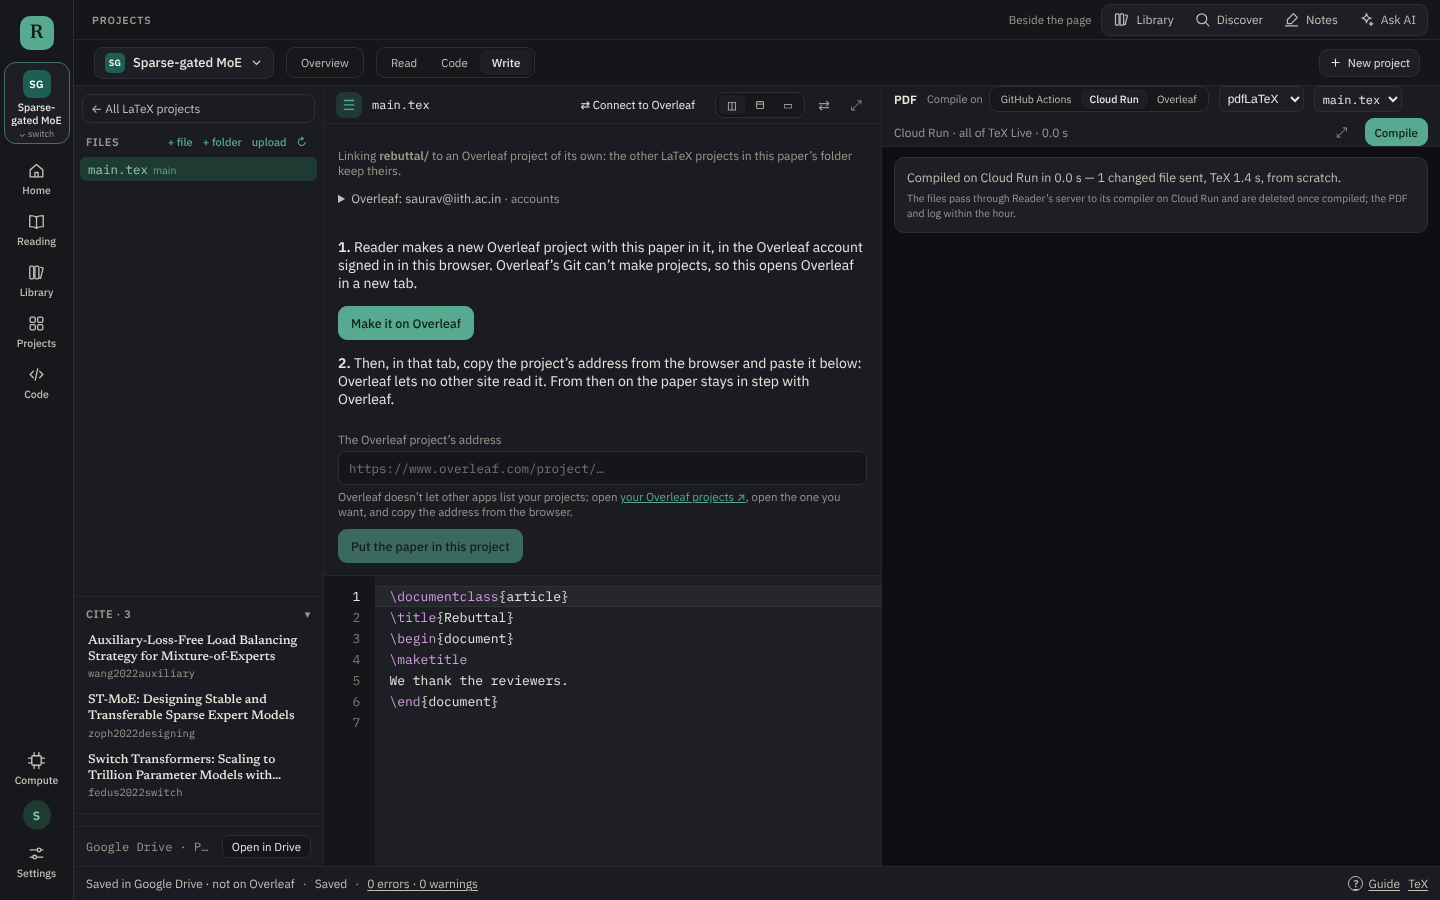
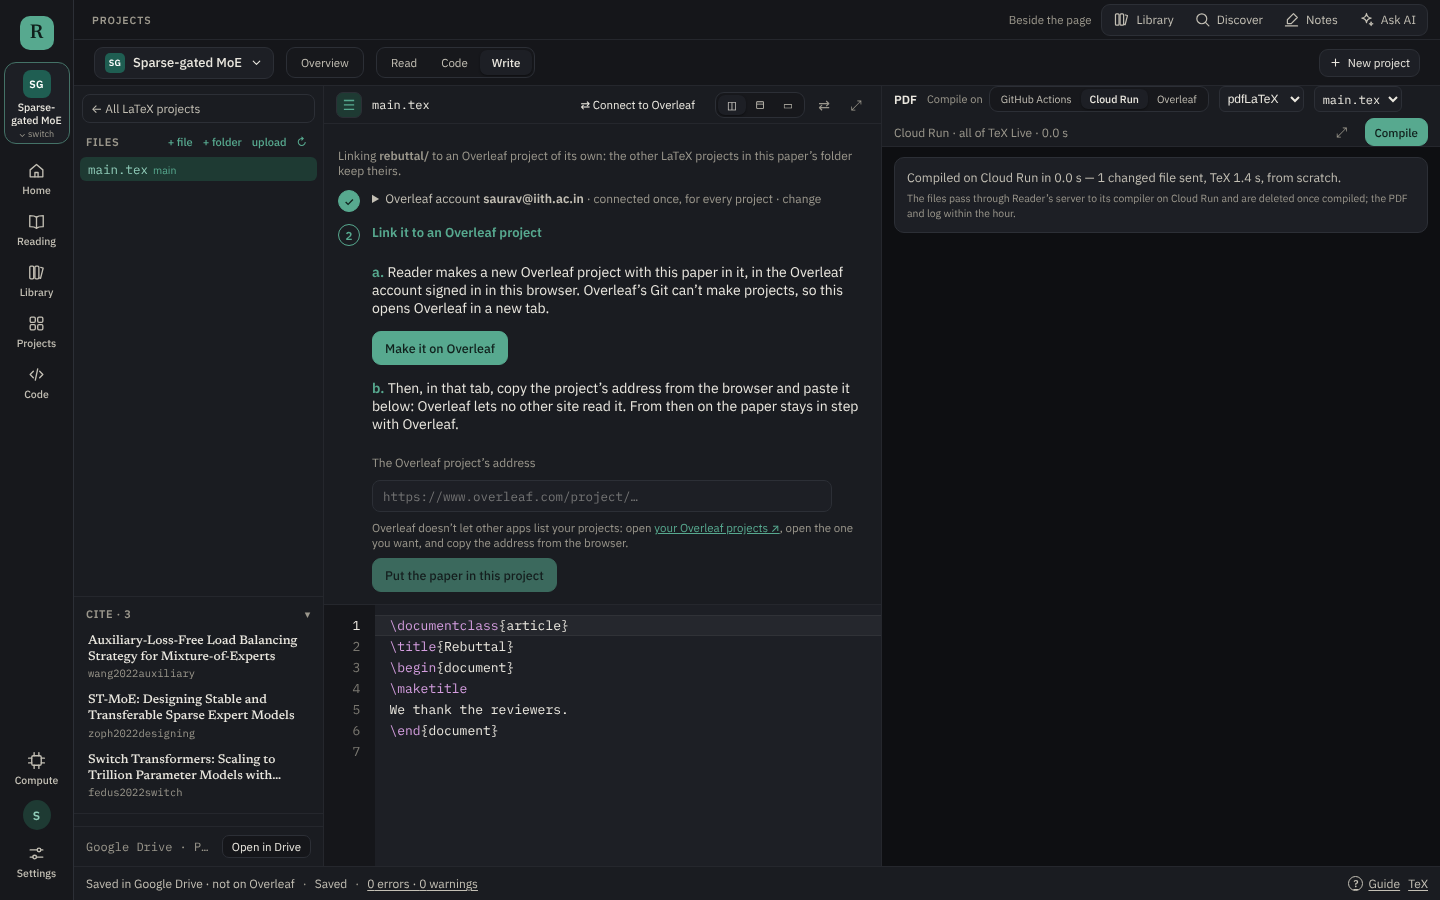
Overleaf account: asked for only when connecting, once, never as a compulsion
- Connect to Overleaf is two steps: the Overleaf account (email and Git
  token) only when none is connected — shown as done, with its name, when
  one is, here or from Projects → Connections — then the LaTeX project's
  Overleaf project.
- In the editor, a LaTeX project linked to Overleaf with no account to sync
  with gets a one-line nudge (Connect Overleaf account / Not now) in place
  of the whole form; Not now is remembered for the project.
- The paper card suggests Overleaf for its state: connect an account and
  link (none connected), link as the account already connected (nothing
  more to enter), or connect the account for a project linked but not
  syncing; Not now puts the suggestion away and leaves the button.
- The Overleaf accounts list is answered even when the server says no, so
  nothing waits on it.

Claude-Session: https://claude.ai/code/session_01EK97U4HuEDfpZxHH8nzPX2

Changed region(s): [[0.2188, 0.2178, 0.5938, 0.84]]

diff --git a/src/components/Write.tsx b/src/components/Write.tsx
@@ -31,7 +31,7 @@ import { CompanionConnect } from './Playground';
 import OverleafAccounts, { useOverleafAccounts } from './OverleafAccounts';
 import { WriteGuideLink } from './WriteGuide';
 import CompareOverleaf from './WriteCompare';
-import { lineIn, rememberPlace, takeWriteHome } from '../lib/writePlace';
+import { lineIn, notNow, rememberPlace, saidNotNow, takeWriteHome } from '../lib/writePlace';
 import type { ZipEntry } from '../lib/zip';
 
 type Here = Extract<ThisComputer, { server: unknown }>;
@@ -231,76 +231,106 @@ function OverleafPicker({ project, mode, onPicked, onMake }: { project: Project;
   };
   const pasted = parseOverleafUrl(address);
   if (accounts === null) return <p className="wr-quiet">Asking Reader’s server about your Overleaf accounts…</p>;
-  if (!accounts.length || needAccount)
-    return (
-      <div className="wr-form">
-        <OverleafAccounts open={Boolean(needAccount)} why={needAccount ?? undefined} onConnected={() => (needAccount && last ? void pick(last) : undefined)} />
-      </div>
-    );
+  // Two steps, the first only when it is needed: the Overleaf account, connected once for every project
+  // (here or under Projects → Connections) — never asked again once it is — then this project's Overleaf project.
+  const hasAccount = accounts.length > 0 && !needAccount;
+  const labels = accounts.map((account) => account.label).join(', ');
   return (
     <div className="wr-form wr-ol-pick">
-      <details className="ol-connected">
-        <summary>
-          Overleaf: {accounts.map((account) => account.label).join(', ')} <span className="wr-quiet">· accounts</span>
-        </summary>
-        <OverleafAccounts />
-      </details>
-      {mode === 'push' && onMake ? (
-        <div className="wr-ol-make">
-          <p>
-            <b>1.</b> Reader makes a new Overleaf project with this paper in it, in the Overleaf account signed in in this browser. Overleaf’s Git can’t make projects, so this opens Overleaf in a new tab.
-          </p>
-          <div className="wr-row">
-            <button
-              type="button"
-              className="btn primary"
-              disabled={busy}
-              onClick={() => {
-                setProblem(null);
-                void onMake().then(() => setMade(true), (error) => setProblem(error instanceof Error ? error.message : String(error)));
-              }}
-            >
-              {made ? 'Make another' : 'Make it on Overleaf'}
-            </button>
+      <ol className="wr-steps">
+        <li className={`wr-step${hasAccount ? ' is-done' : ' is-now'}`}>
+          <span className="wr-step-n" aria-hidden="true">
+            {hasAccount ? '✓' : '1'}
+          </span>
+          <div className="wr-step-body">
+            {hasAccount ? (
+              <details className="ol-connected">
+                <summary>
+                  Overleaf account <b>{labels}</b> <span className="wr-quiet">· connected once, for every project · change</span>
+                </summary>
+                <OverleafAccounts />
+              </details>
+            ) : (
+              <>
+                <p className="wr-step-why">
+                  {needAccount ? 'This Overleaf project needs the account it belongs to.' : 'First, your Overleaf account — once, for every project and device. It isn’t asked again, and can be changed under Projects → Connections.'}
+                </p>
+                <OverleafAccounts open why={needAccount ?? undefined} onConnected={() => (needAccount && last ? void pick(last) : undefined)} />
+              </>
+            )}
           </div>
-          <p>
-            <b>2.</b> {made ? 'In the tab that opened, ' : 'Then, in that tab, '}copy the project’s address from the browser and paste it below: Overleaf lets no other site read it. From then on the paper stays in step with Overleaf.
-          </p>
-        </div>
-      ) : mode === 'push' ? (
-        <p>
-          In Overleaf, make a <b>Blank Project</b> for this paper (New Project → Blank Project), copy its address, and paste it here: this paper’s files go into it, and from then on it stays in step with Overleaf.
-        </p>
-      ) : offered.length ? (
-        <>
-          <span className="wr-field-label">Your Overleaf projects Reader knows</span>
-          <div className="wr-ol-list" role="list">
-            {offered.map((item) => (
-              <button key={item.url} type="button" role="listitem" className="wr-ol-item" disabled={busy} onClick={() => void pick(item.url)}>
-                <b>{item.label}</b>
-                <small className="mono">{item.url.replace('https://www.', '')}</small>
-              </button>
-            ))}
+        </li>
+        <li className={`wr-step${hasAccount ? ' is-now' : ' is-later'}`}>
+          <span className="wr-step-n" aria-hidden="true">
+            2
+          </span>
+          <div className="wr-step-body">
+            <b className="wr-step-title">{mode === 'push' ? 'Link it to an Overleaf project' : 'Pick the Overleaf project'}</b>
+            {!hasAccount ? (
+              <p className="wr-quiet">Next, once the account is connected.</p>
+            ) : (
+              <>
+              {mode === 'push' && onMake ? (
+                <div className="wr-ol-make">
+                  <p>
+                    <b>a.</b> Reader makes a new Overleaf project with this paper in it, in the Overleaf account signed in in this browser. Overleaf’s Git can’t make projects, so this opens Overleaf in a new tab.
+                  </p>
+                  <div className="wr-row">
+                    <button
+                      type="button"
+                      className="btn primary"
+                      disabled={busy}
+                      onClick={() => {
+                        setProblem(null);
+                        void onMake().then(() => setMade(true), (error) => setProblem(error instanceof Error ? error.message : String(error)));
+                      }}
+                    >
+                      {made ? 'Make another' : 'Make it on Overleaf'}
+                    </button>
+                  </div>
+                  <p>
+                    <b>b.</b> {made ? 'In the tab that opened, ' : 'Then, in that tab, '}copy the project’s address from the browser and paste it below: Overleaf lets no other site read it. From then on the paper stays in step with Overleaf.
+                  </p>
+                </div>
+              ) : mode === 'push' ? (
+                <p>
+                  In Overleaf, make a <b>Blank Project</b> for this paper (New Project → Blank Project), copy its address, and paste it here: this paper’s files go into it, and from then on it stays in step with Overleaf.
+                </p>
+              ) : offered.length ? (
+                <>
+                  <span className="wr-field-label">Your Overleaf projects Reader knows</span>
+                  <div className="wr-ol-list" role="list">
+                    {offered.map((item) => (
+                      <button key={item.url} type="button" role="listitem" className="wr-ol-item" disabled={busy} onClick={() => void pick(item.url)}>
+                        <b>{item.label}</b>
+                        <small className="mono">{item.url.replace('https://www.', '')}</small>
+                      </button>
+                    ))}
+                  </div>
+                </>
+              ) : null}
+              <label className="wr-field">
+                <span>{mode === 'push' || !offered.length ? 'The Overleaf project’s address' : 'Or another of your projects: its address'}</span>
+                <input value={address} placeholder="https://www.overleaf.com/project/…" onChange={(event) => setAddress(event.target.value)} aria-label="The Overleaf project’s address" />
+                <small>
+                  Overleaf doesn’t let other apps list your projects: open{' '}
+                  <a href="https://www.overleaf.com/project" target="_blank" rel="noopener noreferrer">
+                    your Overleaf projects ↗
+                  </a>
+                  , open the one you want, and copy the address from the browser.
+                </small>
+              </label>
+              <div className="wr-row">
+                <button type="button" className="btn primary" disabled={busy || !pasted} onClick={() => pasted && void pick(pasted)}>
+                  {busy ? (mode === 'push' ? 'Sending the paper to Overleaf…' : 'Bringing it in…') : mode === 'push' ? 'Put the paper in this project' : 'Use this project'}
+                </button>
+                {address.trim() && !pasted ? <span className="wr-bad">That isn’t an Overleaf project’s address (overleaf.com/project/…).</span> : null}
+              </div>
+              </>
+            )}
           </div>
-        </>
-      ) : null}
-      <label className="wr-field">
-        <span>{mode === 'push' || !offered.length ? 'The Overleaf project’s address' : 'Or another of your projects: its address'}</span>
-        <input value={address} placeholder="https://www.overleaf.com/project/…" onChange={(event) => setAddress(event.target.value)} aria-label="The Overleaf project’s address" />
-        <small>
-          Overleaf doesn’t let other apps list your projects: open{' '}
-          <a href="https://www.overleaf.com/project" target="_blank" rel="noopener noreferrer">
-            your Overleaf projects ↗
-          </a>
-          , open the one you want, and copy the address from the browser.
-        </small>
-      </label>
-      <div className="wr-row">
-        <button type="button" className="btn primary" disabled={busy || !pasted} onClick={() => pasted && void pick(pasted)}>
-          {busy ? (mode === 'push' ? 'Sending the paper to Overleaf…' : 'Bringing it in…') : mode === 'push' ? 'Put the paper in this project' : 'Use this project'}
-        </button>
-        {address.trim() && !pasted ? <span className="wr-bad">That isn’t an Overleaf project’s address (overleaf.com/project/…).</span> : null}
-      </div>
+        </li>
+      </ol>
       {problem ? <p className="wr-bad">{problem}</p> : null}
     </div>
   );
@@ -2208,7 +2238,8 @@ function WriteDesk({ project, here, folder, store, rootStore, scope, owner = '',
     void refreshList();
     if (server && !inDrive) void paperEngines(server).then(setEngines, () => setEngines(null));
     if (git && server && !inDrive) void paperRemote(server, folder.path).then((remote) => setNeedToken(!remote.token && /overleaf|github/.test(remote.url)), () => undefined);
-    if (git && inDrive) void overleafTokenKnown().then((known) => setNeedToken(!known), () => undefined);
+    // No account, and "Not now" said for this project: written without syncing, no nudge, until Sync is pressed.
+    if (git && inDrive) void overleafTokenKnown().then((known) => (known ? setNeedToken(false) : saidNotNow(project.id) ? setUnsynced(true) : setNeedToken(true)), () => undefined);
   }, [refreshList, server, folder.path, git, inDrive]);
 
   // The open LaTeX project's own files; the folder's other projects are a step back, on the home page.
@@ -2548,6 +2579,8 @@ function WriteDesk({ project, here, folder, store, rootStore, scope, owner = '',
   const placeTimer = useRef<number>();
   // Each LaTeX project its own Overleaf project: this one linked by itself, from the paper's whole folder.
   const [connecting, setConnecting] = useState(connectOverleaf);
+  // Linked to Overleaf with no account to sync with: a nudge, the account's form only when asked for (or the paper card asked).
+  const [accountOpen, setAccountOpen] = useState(connectOverleaf);
   const canConnect = inDrive && !git && Boolean(rootStore);
   useEffect(() => {
     if (!shown || !current || placed.current === shown) return;
@@ -3240,14 +3273,23 @@ function WriteDesk({ project, here, folder, store, rootStore, scope, owner = '',
               , keep what should stay, and sync again.
             </span>
           ) : needToken ? (
-            <span>{inDrive ? 'No Overleaf account is connected yet: connect yours to keep the paper in step with Overleaf.' : 'The Companion has no token for this folder’s remote yet.'}</span>
+            <span>{inDrive ? 'This LaTeX project is linked to Overleaf, but isn’t syncing: no Overleaf account is connected yet. Optional — writing and compiling here go on either way.' : 'The Companion has no token for this folder’s remote yet.'}</span>
           ) : (
             <span>{syncError}</span>
           )}
-          {inDrive && (needToken || /token|account/i.test(syncError ?? '')) ? (
+          {inDrive && (needToken || /token|account/i.test(syncError ?? '')) && !accountOpen ? (
+            <span className="wr-nudge-actions">
+              <button type="button" className="btn sm primary" onClick={() => setAccountOpen(true)}>
+                Connect Overleaf account
+              </button>
+              <button type="button" className="link-btn" onClick={() => (notNow(project.id), setUnsynced(true), setNeedToken(false), setSyncError(null))} title="Keep writing and compiling here; nothing goes to Overleaf until you press Sync">
+                Not now
+              </button>
+            </span>
+          ) : inDrive && (needToken || /token|account/i.test(syncError ?? '')) ? (
             <div className="wr-sync-accounts">
-              <OverleafAccounts open projectUrl={link?.url} onConnected={() => (setNeedToken(false), void sync())} />
-              <button type="button" className="link-btn" onClick={() => (setUnsynced(true), setNeedToken(false), setSyncError(null))} title="Keep writing and compiling here; nothing goes to Overleaf until you press Sync">
+              <OverleafAccounts open projectUrl={link?.url} onConnected={() => (setAccountOpen(false), setNeedToken(false), void sync())} />
+              <button type="button" className="link-btn" onClick={() => (notNow(project.id), setAccountOpen(false), setUnsynced(true), setNeedToken(false), setSyncError(null))} title="Keep writing and compiling here; nothing goes to Overleaf until you press Sync">
                 Not now: write without syncing
               </button>
             </div>

diff --git a/src/components/Overleaf.tsx b/src/components/Overleaf.tsx
@@ -30,8 +30,8 @@ import { createPrivateRepo, githubAccount, makeRepoPrivate, parseRepo, repoNameF
 import { papersIn, projectsOf, type Project } from '../lib/projects';
 import type { OverleafLink, OverleafView, Paper, Settings } from '../types';
 import CodeEditor, { type CodeEditorHandle } from './CodeEditor';
-import { SyncedThrough } from './OverleafAccounts';
-import { agoShort, lastPlace, openWriteHome, type WriteHomeAsk } from '../lib/writePlace';
+import { SyncedThrough, useOverleafAccounts } from './OverleafAccounts';
+import { agoShort, lastPlace, notNow, openWriteHome, saidNotNow, type WriteHomeAsk } from '../lib/writePlace';
 import { CheckIcon, CopyIcon, ExternalIcon, LockIcon } from './icons';
 
 // -------------------------------------------------- opening Overleaf --
@@ -453,6 +453,20 @@ export function OverleafCard({ project, onWrite, onWorkspace }: { project: Proje
   const onOverleaf = Boolean(overleafGitUrl(hereLink.url));
   // The ones known by their links: the top's when it has one (or was written in), and each folder with a link of its own.
   const latexProjects = link?.drive ? [...(overleafGitUrl(link.url) || (place && !place.dir) ? [''] : []), ...Object.keys(link.latex ?? {})].map((dir) => ({ dir, url: latexLinkAt(link, dir).url })) : [];
+  // Overleaf offered, never required: a suggestion for this state, put away with Not now (the button stays).
+  const accounts = useOverleafAccounts();
+  const [quiet, setQuiet] = useState(() => saidNotNow(project.id, 'card'));
+  const accountLabel = accounts?.[0]?.label;
+  const suggest: { text: string; action: string; tone: 'warn' | 'idea' } | null =
+    !started || accounts === null || quiet
+      ? null
+      : onOverleaf && !accounts.length
+        ? { text: `${here ? `${here}/ is` : 'This paper is'} linked to Overleaf but isn’t syncing: connect your Overleaf account once, for every project, and it stays in step both ways.`, action: 'Connect account…', tone: 'warn' }
+        : !onOverleaf && !accounts.length
+          ? { text: 'Coauthors on Overleaf? Optionally connect your Overleaf account and link this LaTeX project to an Overleaf project — kept in step both ways.', action: 'Connect Overleaf…', tone: 'idea' }
+          : !onOverleaf
+            ? { text: `Coauthors on Overleaf? Link ${here ? `${here}/` : 'this LaTeX project'} to an Overleaf project as ${accountLabel}${accounts.length > 1 ? ` (or ${accounts.length - 1} other account${accounts.length > 2 ? 's' : ''})` : ''} — nothing more to enter.`, action: 'Sync with Overleaf…', tone: 'idea' }
+            : null;
   const write = (ask?: WriteHomeAsk) => {
     if (ask) openWriteHome(project.id, ask);
     onWrite();
@@ -512,13 +526,26 @@ export function OverleafCard({ project, onWrite, onWorkspace }: { project: Proje
             ) : null}
             {onOverleaf ? (
               <OpenOverleaf project={project} view={view === 'beside' ? 'beside' : 'overview'} primary={false} url={hereLink.url} />
-            ) : (
+            ) : suggest ? null : (
               <button type="button" className="btn ghost sm" onClick={() => write('overleaf')} title={started ? `Link ${here ? `${here}/` : 'this LaTeX project'} to an Overleaf project of its own, kept in step both ways` : 'Already writing it in Overleaf? Bring it here, kept in step both ways'}>
                 <ExternalIcon size={13} /> {started ? 'Sync with Overleaf…' : 'Bring it from Overleaf…'}
               </button>
             )}
           </div>
-          {onOverleaf ? <SyncedThrough gitAccount={hereLink.gitAccount ?? link?.gitAccount} /> : null}
+          {suggest ? (
+            <div className={`ol-suggest is-${suggest.tone}`} role="note">
+              <p>{suggest.text}</p>
+              <span className="ol-suggest-actions">
+                <button type="button" className="btn sm" onClick={() => write('overleaf')}>
+                  <ExternalIcon size={13} /> {suggest.action}
+                </button>
+                <button type="button" className="link-btn" onClick={() => (notNow(project.id, 'card'), setQuiet(true))} title="Put this suggestion away; Overleaf stays a button away">
+                  Not now
+                </button>
+              </span>
+            </div>
+          ) : null}
+          {onOverleaf && accounts?.length ? <SyncedThrough gitAccount={hereLink.gitAccount ?? link?.gitAccount} /> : null}
           {latexProjects.length > 1 ? (
             <ul className="ol-latex" aria-label="Each LaTeX project’s Overleaf project">
               {latexProjects.map((one) => (

diff --git a/src/styles.css b/src/styles.css
@@ -7753,3 +7753,17 @@ body.is-dragging-y, body.is-dragging-y * { cursor: row-resize !important; user-s
 .ol-latex .mono { font-size: 11.5px; color: var(--ink); }
 .ol-latex-on { color: var(--accent); }
 .ol-latex-off { color: var(--muted); }
+.ol-suggest { display: flex; flex-wrap: wrap; align-items: center; gap: 8px 14px; padding: 10px 12px; border: 1px dashed var(--border); border-radius: 10px; background: color-mix(in srgb, var(--accent) 6%, transparent); }
+.ol-suggest p { flex: 1 1 280px; margin: 0; font-size: 12.5px; line-height: 1.5; color: var(--ink); }
+.ol-suggest.is-warn { border-style: solid; border-color: color-mix(in srgb, #c9a400 45%, transparent); background: color-mix(in srgb, #c9a400 8%, transparent); }
+.ol-suggest-actions { display: inline-flex; align-items: center; gap: 12px; }
+.wr-nudge-actions { display: inline-flex; align-items: center; gap: 12px; margin-left: auto; }
+.wr-steps { list-style: none; margin: 0; padding: 0; display: flex; flex-direction: column; gap: 10px; }
+.wr-step { display: grid; grid-template-columns: 24px minmax(0, 1fr); gap: 10px; align-items: start; }
+.wr-step-n { width: 22px; height: 22px; display: inline-grid; place-items: center; border-radius: 50%; border: 1px solid var(--border); font: 600 11.5px var(--sans); color: var(--muted); }
+.wr-step.is-now .wr-step-n { border-color: var(--accent); color: var(--accent); }
+.wr-step.is-done .wr-step-n { background: var(--accent); border-color: var(--accent); color: var(--accent-on); }
+.wr-step.is-later { opacity: 0.55; }
+.wr-step-body { display: flex; flex-direction: column; gap: 8px; min-width: 0; }
+.wr-step-title { font: 600 13px var(--sans); }
+.wr-step-why { margin: 0; font-size: 12.5px; color: var(--muted); }

diff --git a/src/lib/writePlace.ts b/src/lib/writePlace.ts
@@ -72,6 +72,27 @@ export function takeWriteHome(project: string): WriteHomeAsk | null {
   }
 }
 
+/**
+ * "Not now" to connecting an Overleaf account, said for a project (or, with
+ * `card`, to the paper card's suggestion): no nudge about it again on this
+ * device, Sync and the card's buttons still there for when it is wanted.
+ */
+const NOT_NOW_KEY = (project: string, where: string) => `reader.write.${project}.notNow:${where}`;
+export function notNow(project: string, where: 'desk' | 'card' = 'desk') {
+  try {
+    localStorage.setItem(NOT_NOW_KEY(project, where), '1');
+  } catch {
+    // only a convenience
+  }
+}
+export function saidNotNow(project: string, where: 'desk' | 'card' = 'desk'): boolean {
+  try {
+    return localStorage.getItem(NOT_NOW_KEY(project, where)) === '1';
+  } catch {
+    return false;
+  }
+}
+
 /** “3 min ago”, “2 h ago”, “4 Oct”. */
 export function agoShort(at: number, now = Date.now()): string {
   const minutes = Math.round((now - at) / 60000);

diff --git a/src/components/OverleafAccounts.tsx b/src/components/OverleafAccounts.tsx
@@ -47,7 +47,8 @@ export function useOverleafAccounts(): OverleafAccount[] | null {
   const [accounts, setAccounts] = useState<OverleafAccount[] | null>(null);
   useEffect(() => {
     const stop = onOverleafAccounts(setAccounts);
-    void overleafAccounts().catch(() => setAccounts([]));
+    // Answered whatever the server says: an answer that isn't the list (signed out, a server without accounts) is none.
+    overleafAccounts().then(setAccounts, () => setAccounts([]));
     return stop;
   }, []);
   return accounts;
